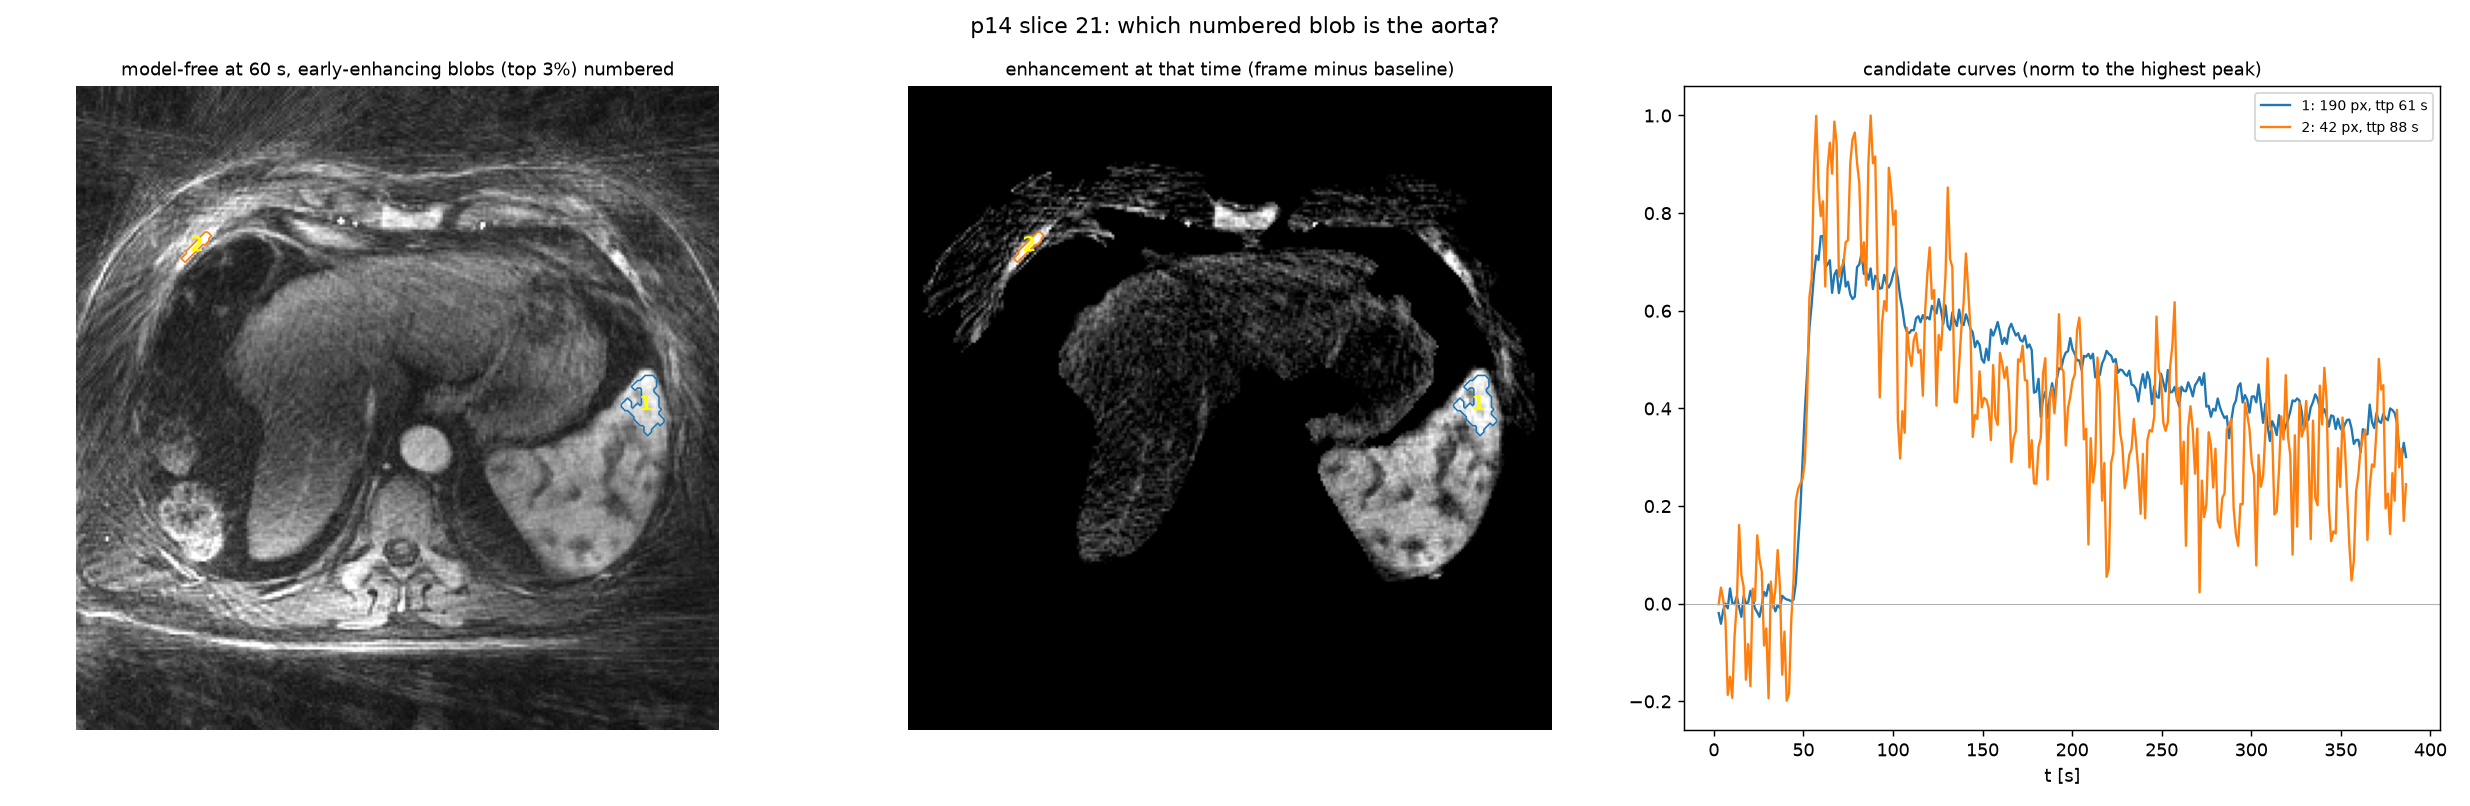
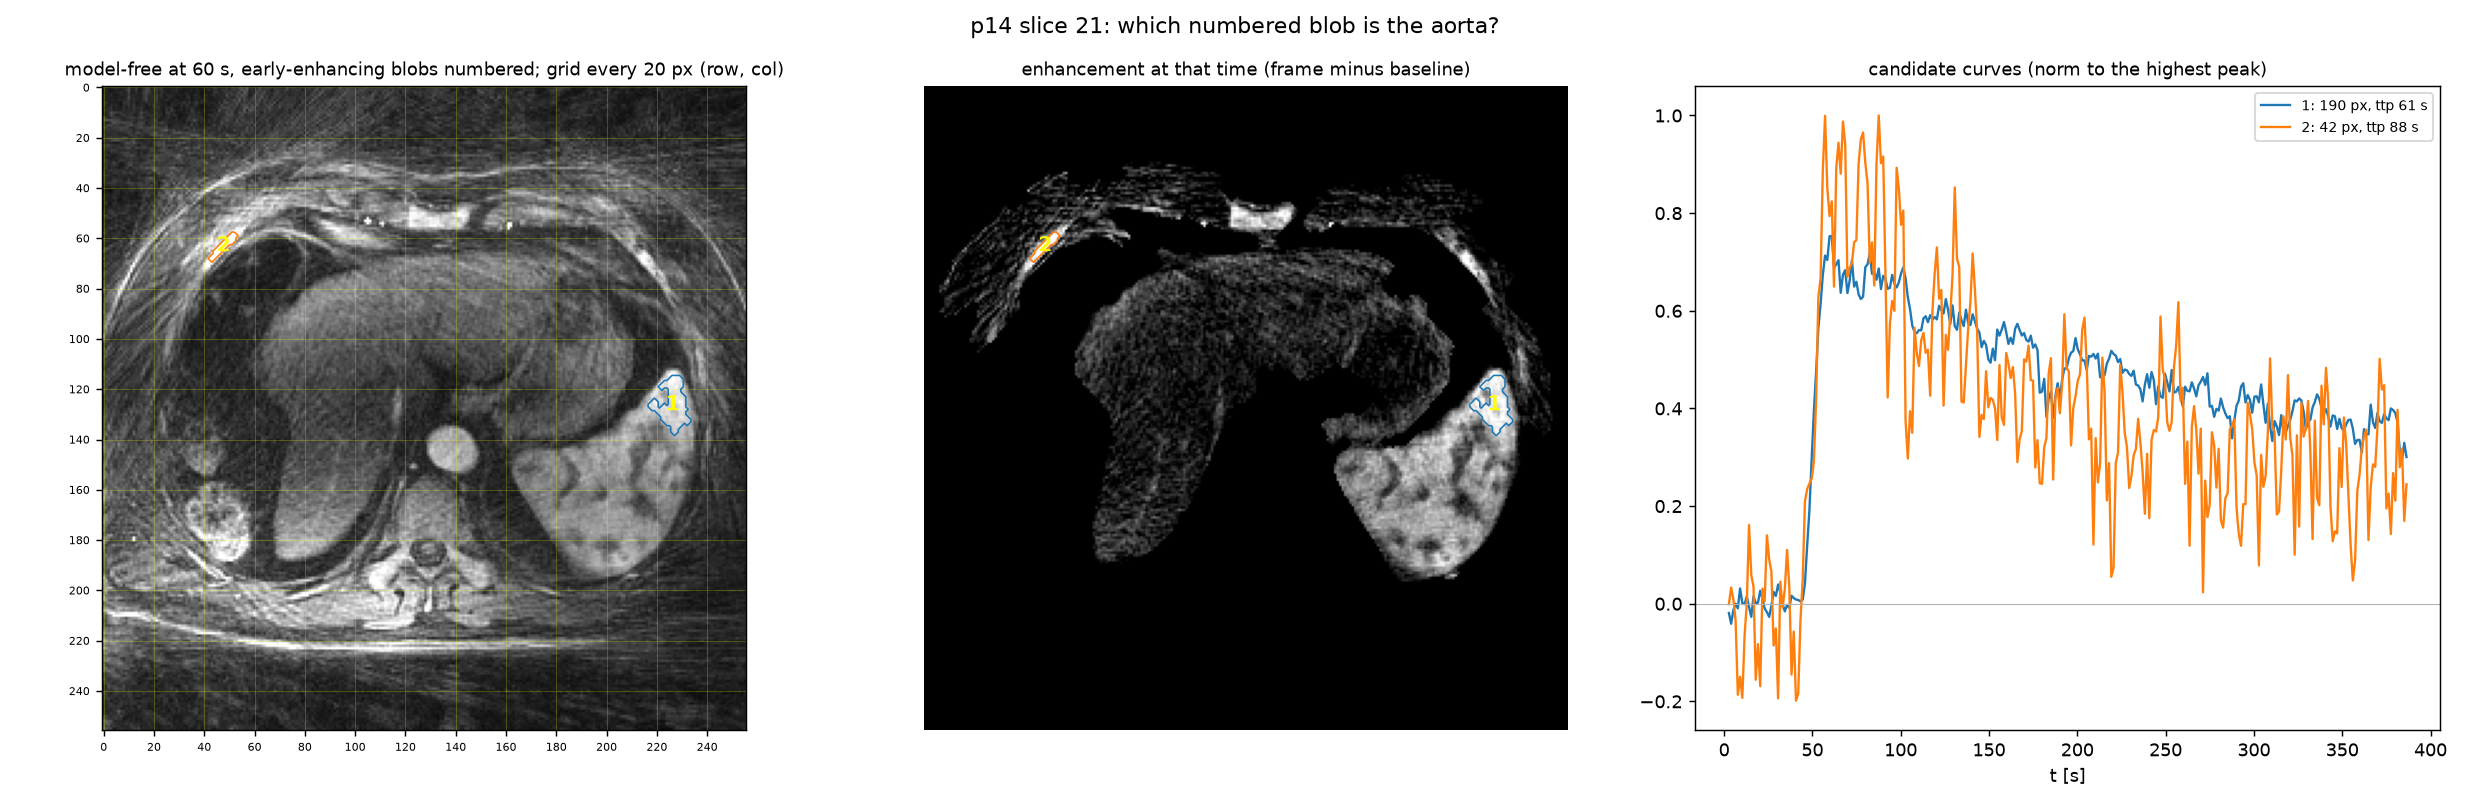
agent 2026-09-24 23:04 worker01.cluster: 5 files

diff --git a/jobs/agent/status.md b/jobs/agent/status.md
@@ -1,19 +1,18 @@
 # helios agent
 
-updated 2026-09-24 23:02:51 on worker01.cluster, job 3372168, cycle 146
+updated 2026-09-24 23:04:56 on worker01.cluster, job 3372168, cycle 147
 
 ## active
 
 | jid | script | state |
 |---|---|---|
 | 3374298 | 071_p14_prep_24_27 | 2 RUNNING None |
-| 3375454 | 079_aorta_grid | 1 PENDING Priority |
 
 ## done (last 20)
 
 | name | state |
 |---|---|
-| 079_aorta_grid | 1 PENDING Priority |
+| 079_aorta_grid | 1 COMPLETED 00:00:08 |
 | 078_aorta_candidates_v3 | 1 COMPLETED 00:00:09 |
 | 077_aorta_candidates_v2 | 1 COMPLETED 00:00:06 |
 | 076_aorta_candidates | 1 COMPLETED 00:00:06 |
